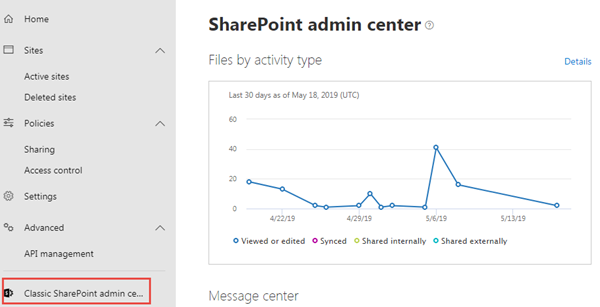
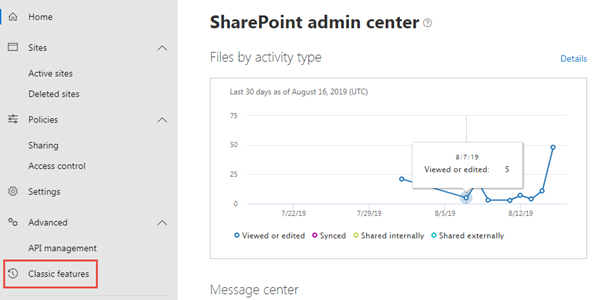
Update Ex1 and Ex2 instructions

diff --git a/Lab.md b/Lab.md
@@ -28,14 +28,21 @@ In this exercise you will configure your SharePoint environment to be ready for 
 
     > Replace the text `{{REPLACE_WITH_YOUR_TENANTID}}` in the above URL with the unique prefix for your Office 365 tenant.
 
-1. If you are taken to the new admin center (also known as the modern admin center) you will need to click the **Classic SharePoint admin center** link in the left-hand navigation.
+1. If you are taken to the classic admin center, select **apps** in the left-hand navigation and then select **App Catalog**.
+
+    ![Screenshot of the classic SharePoint Admin Center](./Images/ex01-appcatalog-01.png)
+
+1. If you are taken to the new admin center (also known as the modern admin center), select the **Classic features** link in the left-hand navigation.
 
     ![Screenshot of the new SharePoint Admin Center](./Images/ex01-appcatalog-05.png)
 
-1. In the left-hand navigation, select **apps**.
-1. When the page refreshes, select **app catalog**.
+    1. Select the **Open** button under **Apps".
 
-    ![Screenshot of the SharePoint Admin Center main page](./Images/ex01-appcatalog-01.png)
+        ![Screenshot of the new SharePoint Admin Center](./Images/ex01-appcatalog-05a.png)
+
+    1. When the new page opens, select **App Catalog**.
+
+        ![Screenshot of the new SharePoint Admin Center](./Images/ex01-appcatalog-05b.png)
 
     > If you are taken to an app catalog site as shown in the following image, then your tenant already has an app catalog, created by someone previously. SharePoint Online tenancies can only have one app catalog. In this case, you can skip to the next step to create a developer site collection.
     >
